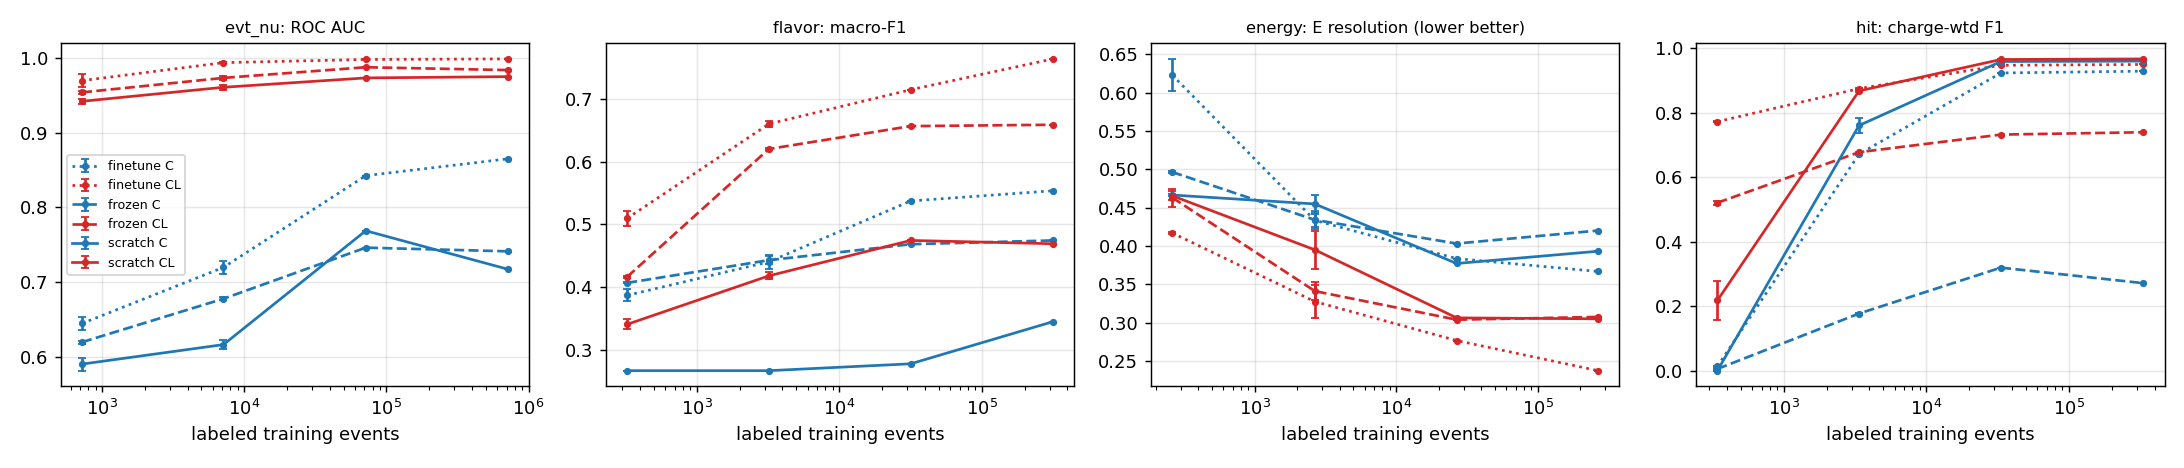
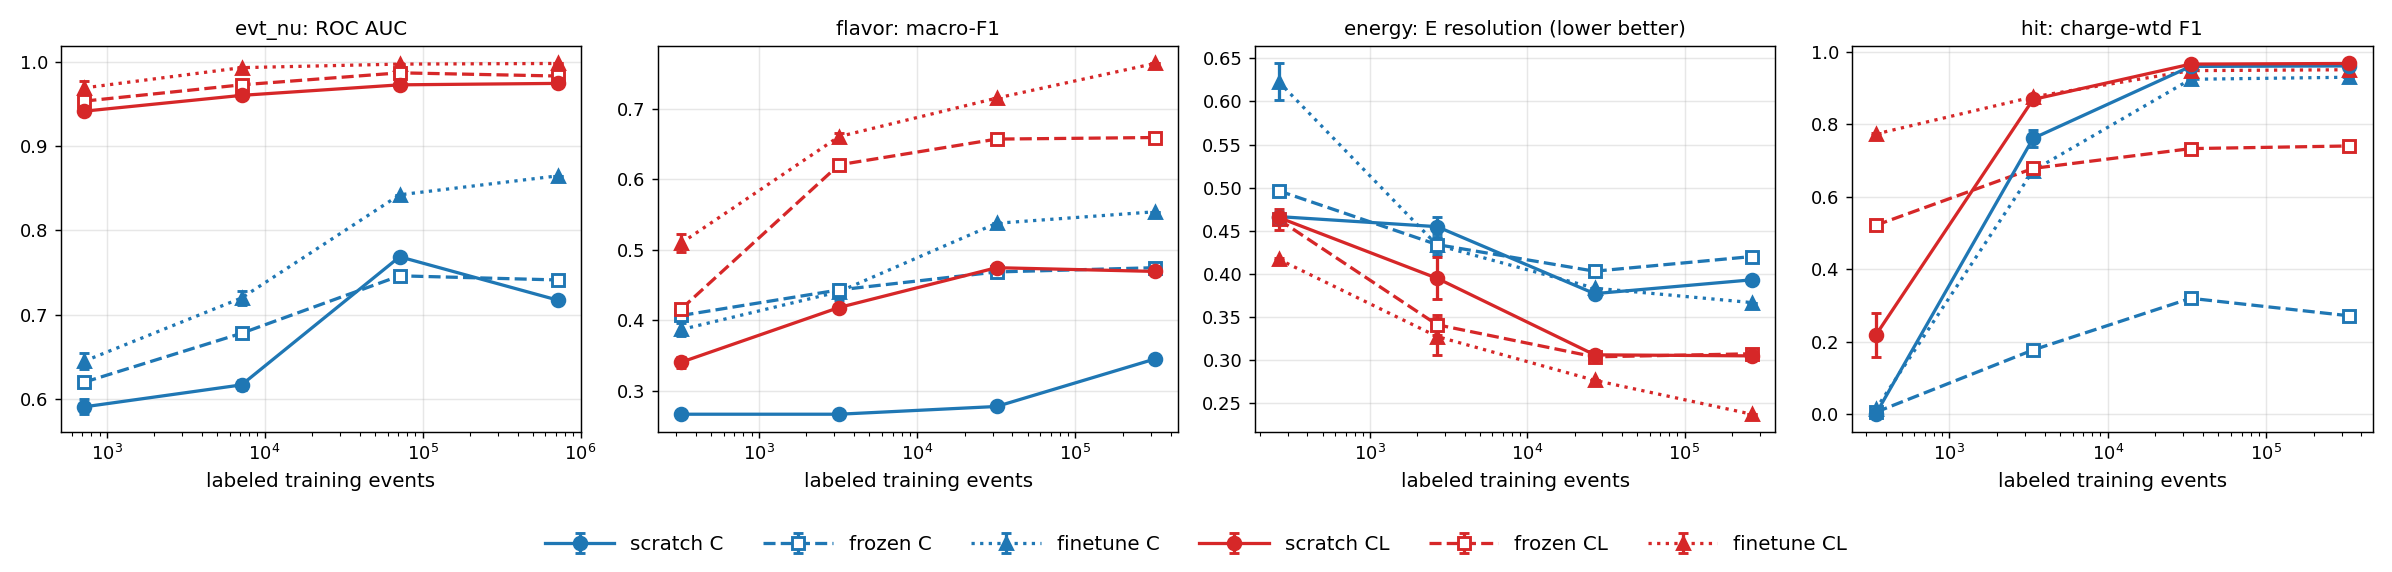
Figures: distinct marker shapes per mode / label budget, larger shared legend
Claude-Session: https://claude.ai/code/session_01UyNww53ddDua1UGvZUcHmU

diff --git a/multi-modal-qlmatch/scripts/plot_scaling.py b/multi-modal-qlmatch/scripts/plot_scaling.py
@@ -47,7 +47,7 @@ def collect(W):
 def main():
     W, out = sys.argv[1], sys.argv[2]
     pts, vl = collect(W)
-    fig, axs = plt.subplots(1, 5, figsize=(21, 3.8))
+    fig, axs = plt.subplots(1, 5, figsize=(22, 4.6))
     col = {("S", "cl"): "#d62728", ("S", "c"): "#1f77b4", ("M", "cl"): "#9467bd"}
     lab = {("S", "cl"): "CL (6.6M)", ("S", "c"): "C (6.6M)", ("M", "cl"): "CL (21M, 2x steps)"}
     for ax, t in zip(axs[:4], K):
@@ -55,17 +55,21 @@ def main():
             if task != t:
                 continue
             xs = sorted(d)
-            ax.plot(xs, [d[x] for x in xs], marker="o", ls="-" if lf == 0.1 else "--", color=col[(model, inp)],
-                    label=f"{lab[(model, inp)]}, {lf:g} labels")
-        ax.set_xscale("log"); ax.set_xlabel("pretraining data fraction"); ax.set_title(K[t][1] + " (frozen)", fontsize=9)
+            ax.plot(xs, [d[x] for x in xs], marker="s" if lf == 0.1 else "o", ms=7, lw=1.8, mew=1.6,
+                    mfc=col[(model, inp)] if lf == 0.1 else "white", ls="-" if lf == 0.1 else "--",
+                    color=col[(model, inp)], label=f"{lab[(model, inp)]}, {lf:g} labels")
+        ax.set_xscale("log"); ax.set_xlabel("pretraining data fraction", fontsize=11)
+        ax.set_title(K[t][1] + " (frozen)", fontsize=11)
         ax.grid(alpha=0.3)
-    axs[0].legend(fontsize=6)
+    h, l = axs[0].get_legend_handles_labels()
+    fig.legend(h, l, loc="lower center", ncol=len(l), fontsize=11, handlelength=3.5, frameon=False)
     for key, d in sorted(vl.items()):
         xs = sorted(d)
-        axs[4].plot(xs, [d[x] for x in xs], marker="o", color=col[key], label=lab[key])
-    axs[4].set_xscale("log"); axs[4].set_xlabel("pretraining data fraction"); axs[4].legend(fontsize=7)
-    axs[4].set_title("pretraining val masked-charge loss (×mean baseline)", fontsize=9); axs[4].grid(alpha=0.3)
-    fig.tight_layout()
+        axs[4].plot(xs, [d[x] for x in xs], marker="D", ms=7, lw=1.8, color=col[key], label=lab[key])
+    axs[4].set_xscale("log"); axs[4].set_xlabel("pretraining data fraction", fontsize=11)
+    axs[4].legend(fontsize=10, handlelength=3)
+    axs[4].set_title("pretraining val masked-charge loss (×mean)", fontsize=11); axs[4].grid(alpha=0.3)
+    fig.tight_layout(rect=(0, 0.1, 1, 1))
     fig.savefig(out, dpi=130)
     print(json.dumps({str(k): v for k, v in vl.items()}))
 

diff --git a/multi-modal-qlmatch/scripts/summarize.py b/multi-modal-qlmatch/scripts/summarize.py
@@ -52,22 +52,27 @@ def plot(df, out):
     matplotlib.use("Agg")
     import matplotlib.pyplot as plt
     tasks = [t for t in KEY if t in set(df.task)]
-    fig, axs = plt.subplots(1, len(tasks), figsize=(4.2 * len(tasks), 3.6), squeeze=False)
-    sty = {"scratch": "-", "frozen": "--", "finetune": ":", "linear": "-."}
+    fig, axs = plt.subplots(1, len(tasks), figsize=(4.6 * len(tasks), 4.4), squeeze=False)
+    sty = {"scratch": ("-", "o"), "frozen": ("--", "s"), "finetune": (":", "^"), "linear": ("-.", "D")}
     col = {"C": "#1f77b4", "CL": "#d62728"}
     for ax, t in zip(axs[0], tasks):
         k, name = KEY[t]
         d = df[(df.task == t) & df.pre_frac.isna()]
         for (mode, inp), g in d.groupby(["mode", "input"]):
             s = g.groupby("n_train")[k].agg(["mean", "std"]).reset_index()
-            ax.errorbar(s.n_train, s["mean"], yerr=s["std"].fillna(0), ls=sty.get(mode, "-"), color=col.get(inp, "k"),
-                        marker="o", ms=3, capsize=2, label=f"{mode} {inp}")
+            ls, mk = sty.get(mode, ("-", "o"))
+            ax.errorbar(s.n_train, s["mean"], yerr=s["std"].fillna(0), ls=ls, marker=mk, ms=7, lw=1.8,
+                        color=col.get(inp, "k"), mfc="white" if mode == "frozen" else col.get(inp, "k"),
+                        mew=1.6, capsize=3, label=f"{mode} {inp}")
         ax.set_xscale("log")
-        ax.set_xlabel("labeled training events")
-        ax.set_title(f"{t}: {name}", fontsize=9)
+        ax.set_xlabel("labeled training events", fontsize=11)
+        ax.set_title(f"{t}: {name}", fontsize=11)
         ax.grid(alpha=0.3)
-    axs[0][0].legend(fontsize=7)
-    fig.tight_layout()
+    h, l = axs[0][0].get_legend_handles_labels()
+    order = sorted(range(len(l)), key=lambda i: (l[i].split()[1], ["scratch", "frozen", "finetune", "linear"].index(l[i].split()[0])))
+    fig.legend([h[i] for i in order], [l[i] for i in order], loc="lower center", ncol=len(l), fontsize=11,
+               handlelength=3.5, frameon=False)
+    fig.tight_layout(rect=(0, 0.1, 1, 1))
     fig.savefig(out, dpi=130)
 
 
